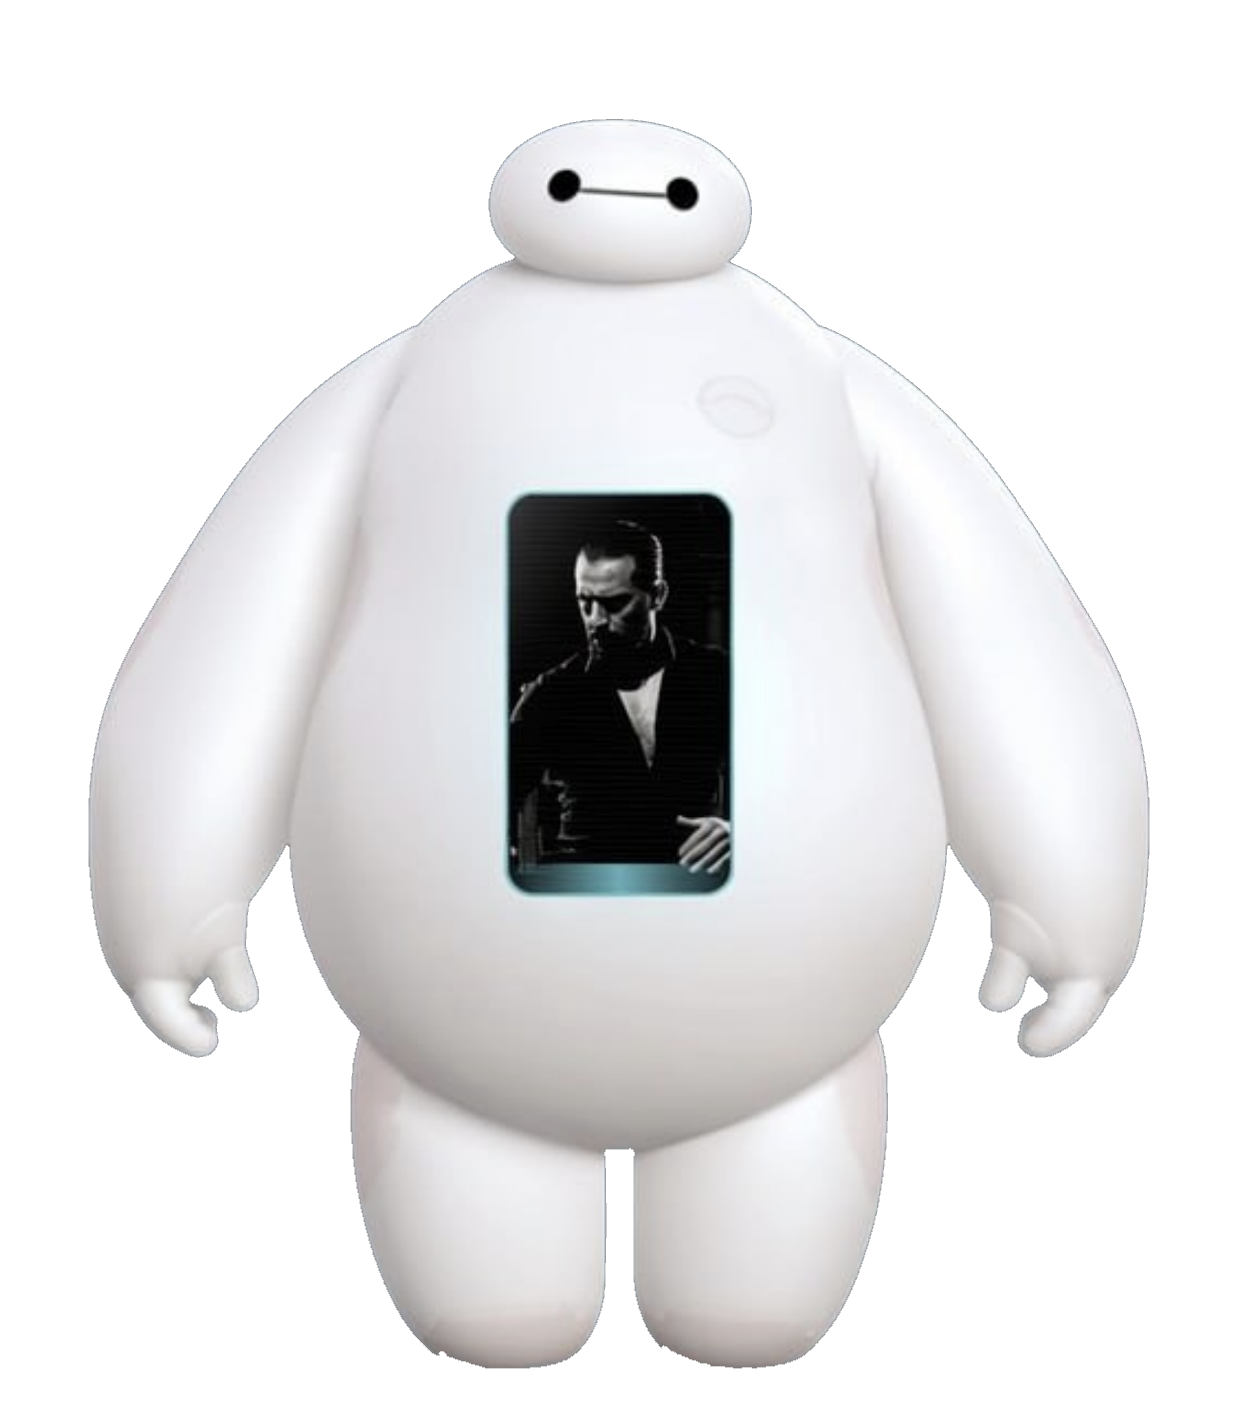
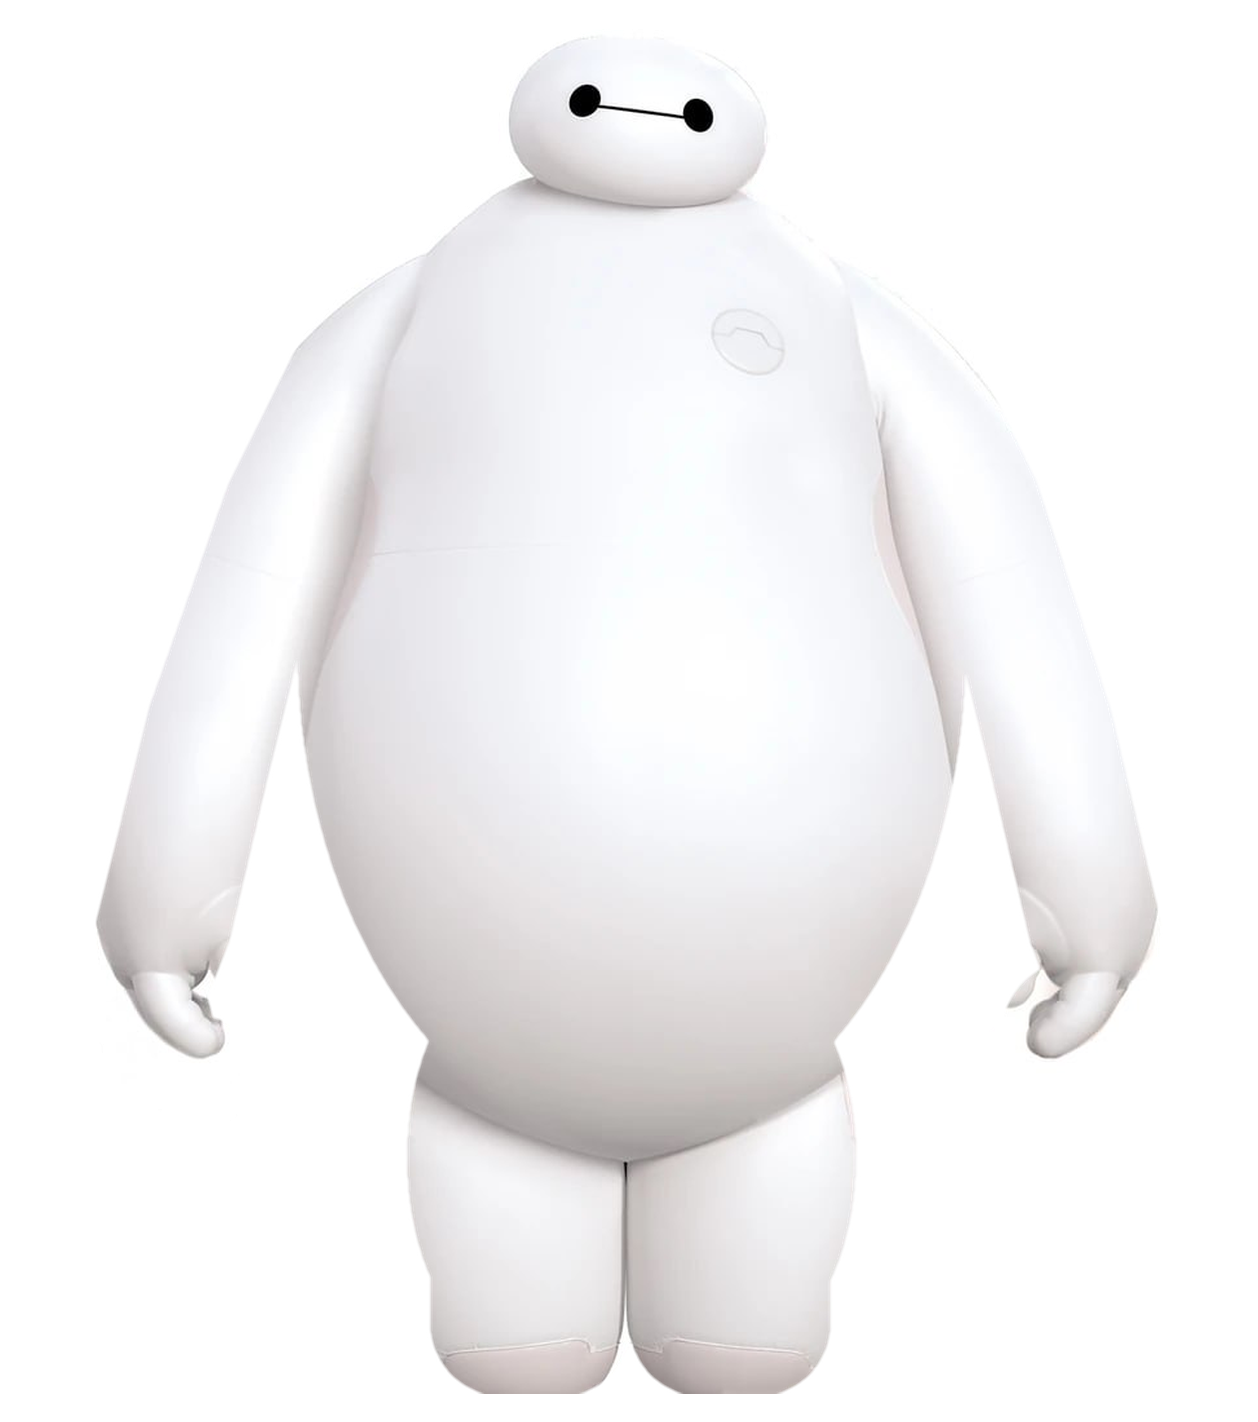
Use clean Admirito robot image

diff --git a/robot/index.html b/robot/index.html
@@ -177,7 +177,7 @@
         </div>
         <div class="robot-area">
           <div class="robot" id="robot" role="img" aria-label="Robot with a chest screen fed by Admira.tv">
-            <img class="robot-photo" src="/assets/xpaceos-robot-chest-photo.png?v=transparent" alt="">
+            <img class="robot-photo" src="/assets/xpaceos-robot-chest-photo.png?v=admirito" alt="">
             <div class="chest" id="chest">
               <div class="screen-fallback"><div><small>Admira.tv local feed</small><b>DOOH</b></div></div>
               <iframe id="admira-feed" title="Admira.tv digital signage feed" src="https://admira.tv/canal.html?clean=1&screen=xpaceos-robot-chest&circuit=xpaceos-robot&slot=auto&refresh=20&max=24&muted=1&volume=1&bridge=20260621-audio&mode=local" loading="eager" referrerpolicy="no-referrer-when-downgrade" sandbox="allow-scripts allow-same-origin allow-forms allow-popups" allow="autoplay; encrypted-media; fullscreen; picture-in-picture"></iframe>
